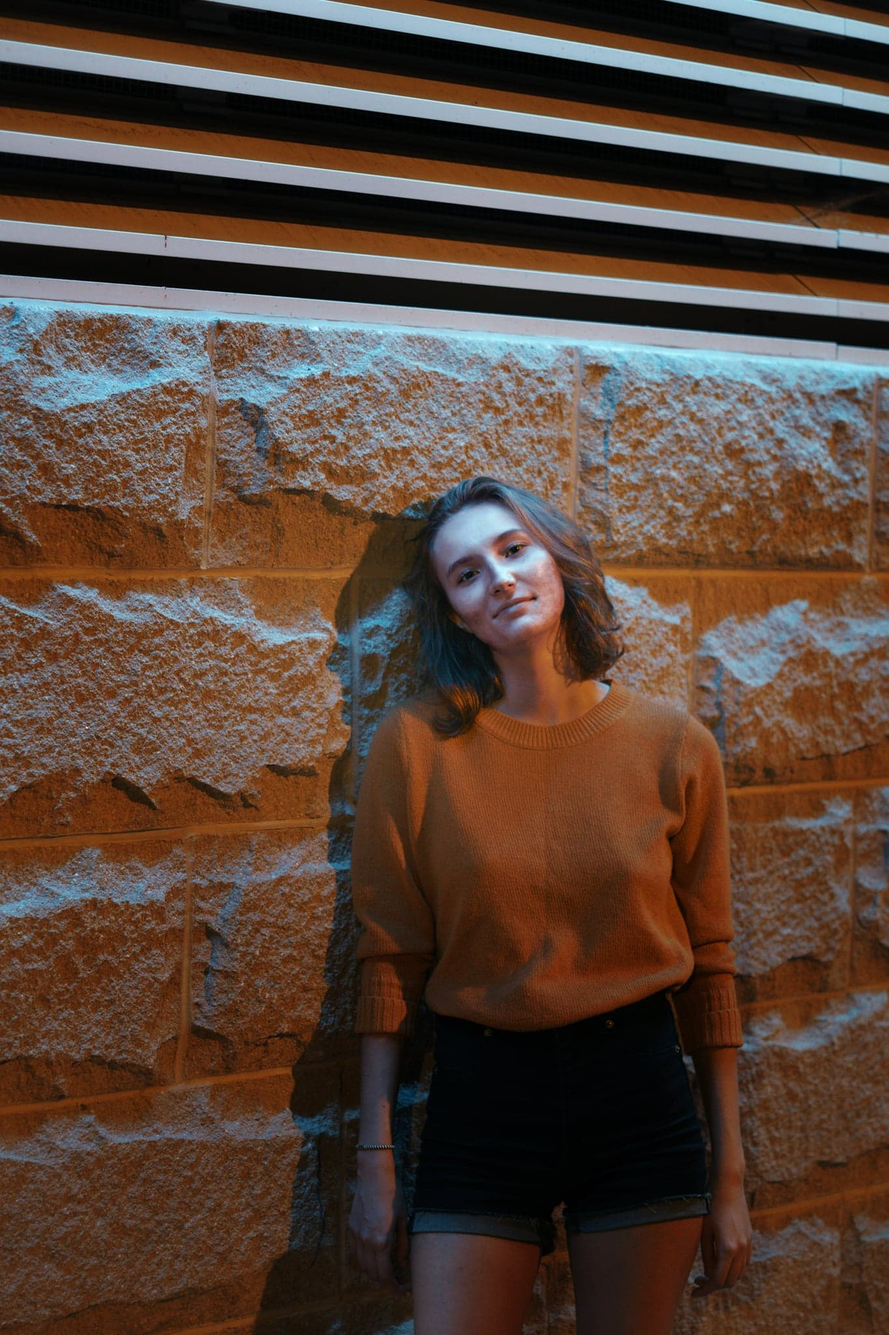
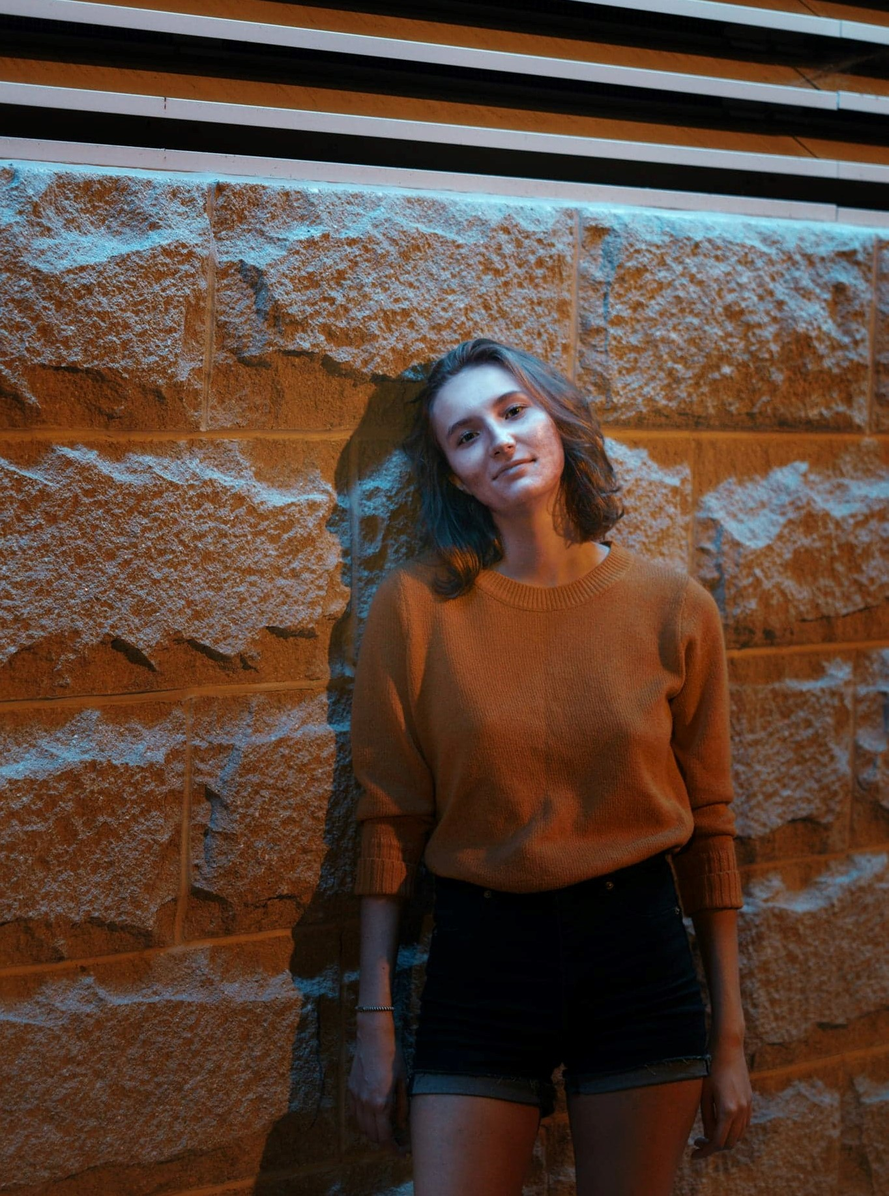
changed color and pic

diff --git a/index.html b/index.html
@@ -14,7 +14,7 @@
 
     <div id="about" class="row">
       <div class="column">
-        <img width="350px" src="aboutpic.jpg" alt="About Picture">
+        <img width="450px" src="pic5.jpg" alt="About Picture">
       </div>
       <div class="column">
       <p>I'm Julia: writer of things.<br>I'm currently studying Writing for TV, Film and Emerging Media at Ithaca College in Ithaca, New York. I’ve been (officially) writing for six years but have a love affair with storytelling that is life-long. I hope to one day write for television, film and video games. I’ll take anything I can get. Along with writing, I have experience in filmmaking, video editing, modeling, and on-camera work.<p>

diff --git a/style.css b/style.css
@@ -20,7 +20,7 @@ h2 {
 
 body {
   font-size: 30px;
-  background-color: #ebe6ab;
+  background-color: #f1edc4;
   font-family:'Mosk Thin', Fallback, sans-serif;
   color: #000000;
 }
